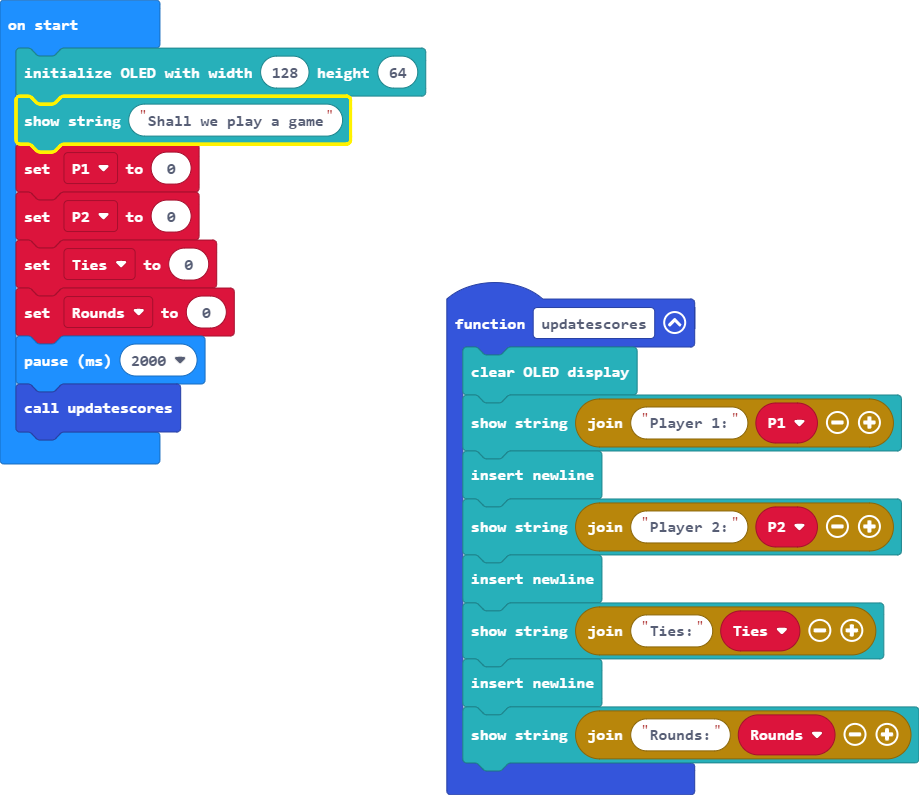
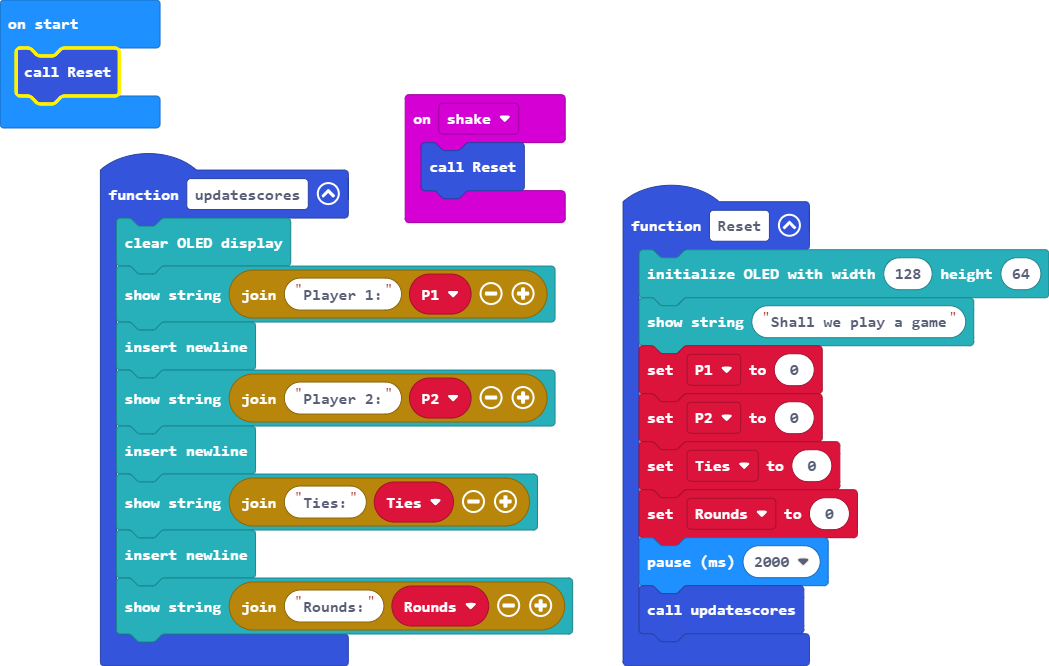
Update main.blocks, main.ts

diff --git a/main.ts b/main.ts
@@ -8,15 +8,21 @@ function updatescores () {
     OLED.newLine()
     OLED.writeStringNewLine("Rounds:" + Rounds)
 }
+input.onGesture(Gesture.Shake, function () {
+    Reset()
+})
+function Reset () {
+    OLED.init(128, 64)
+    OLED.writeStringNewLine("Shall we play a game")
+    P1 = 0
+    P2 = 0
+    Ties = 0
+    Rounds = 0
+    basic.pause(2000)
+    updatescores()
+}
 let Rounds = 0
 let Ties = 0
 let P2 = 0
 let P1 = 0
-OLED.init(128, 64)
-OLED.writeStringNewLine("Shall we play a game")
-P1 = 0
-P2 = 0
-Ties = 0
-Rounds = 0
-basic.pause(2000)
-updatescores()
+Reset()
